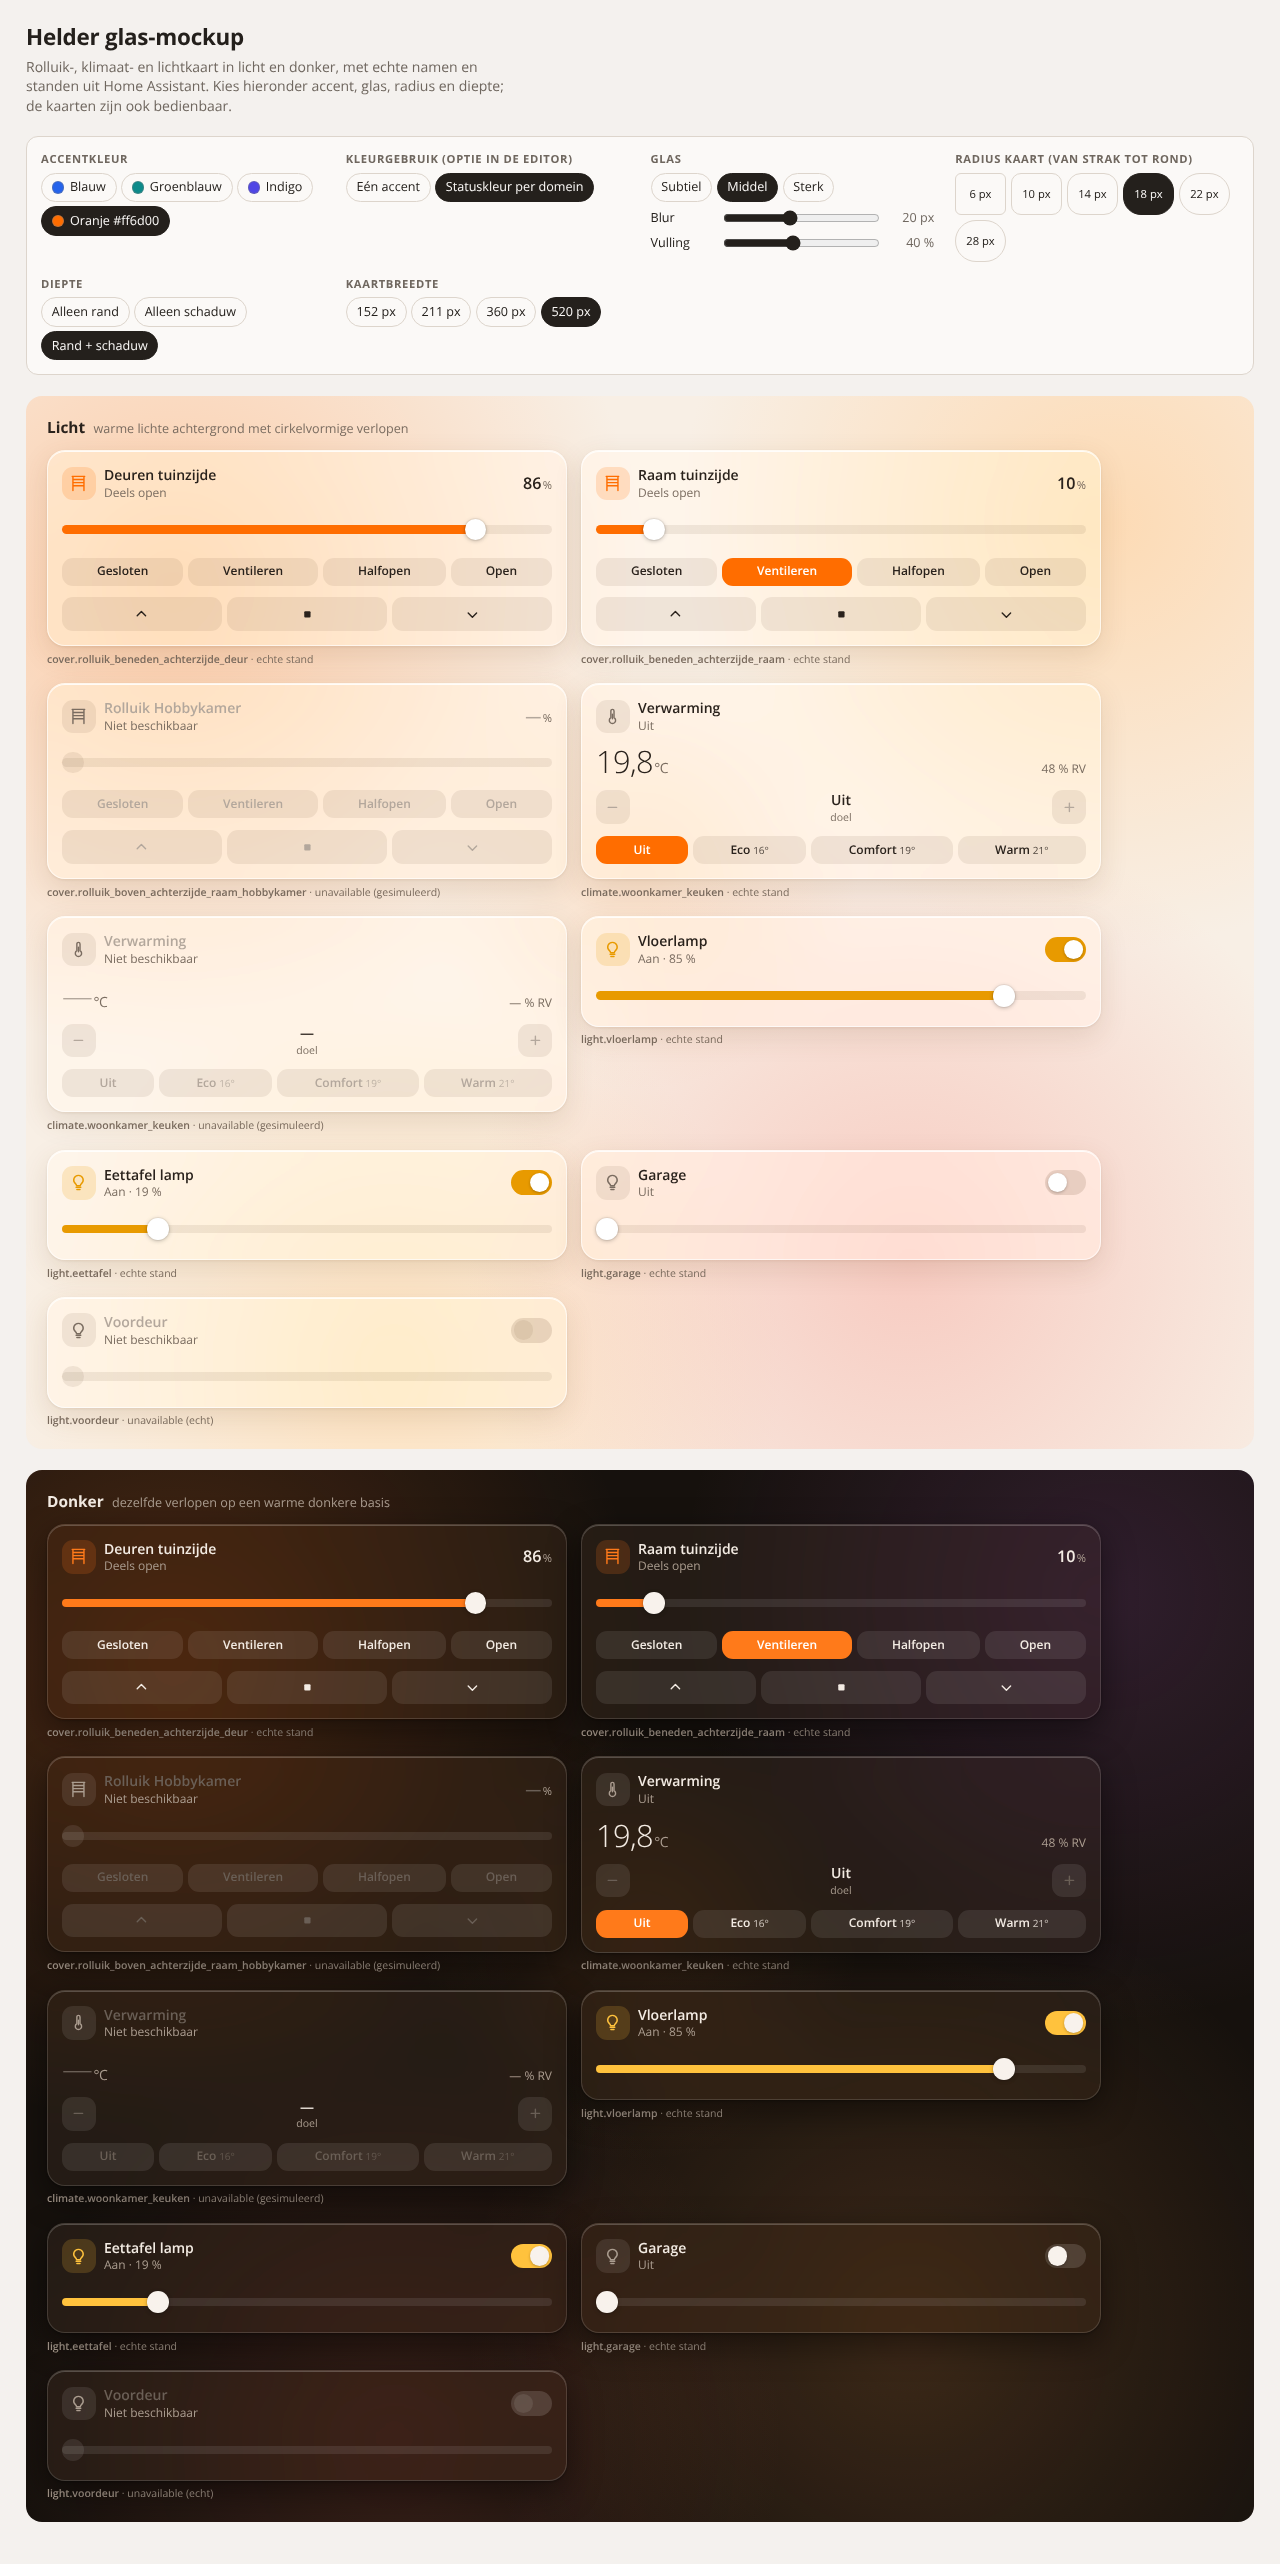
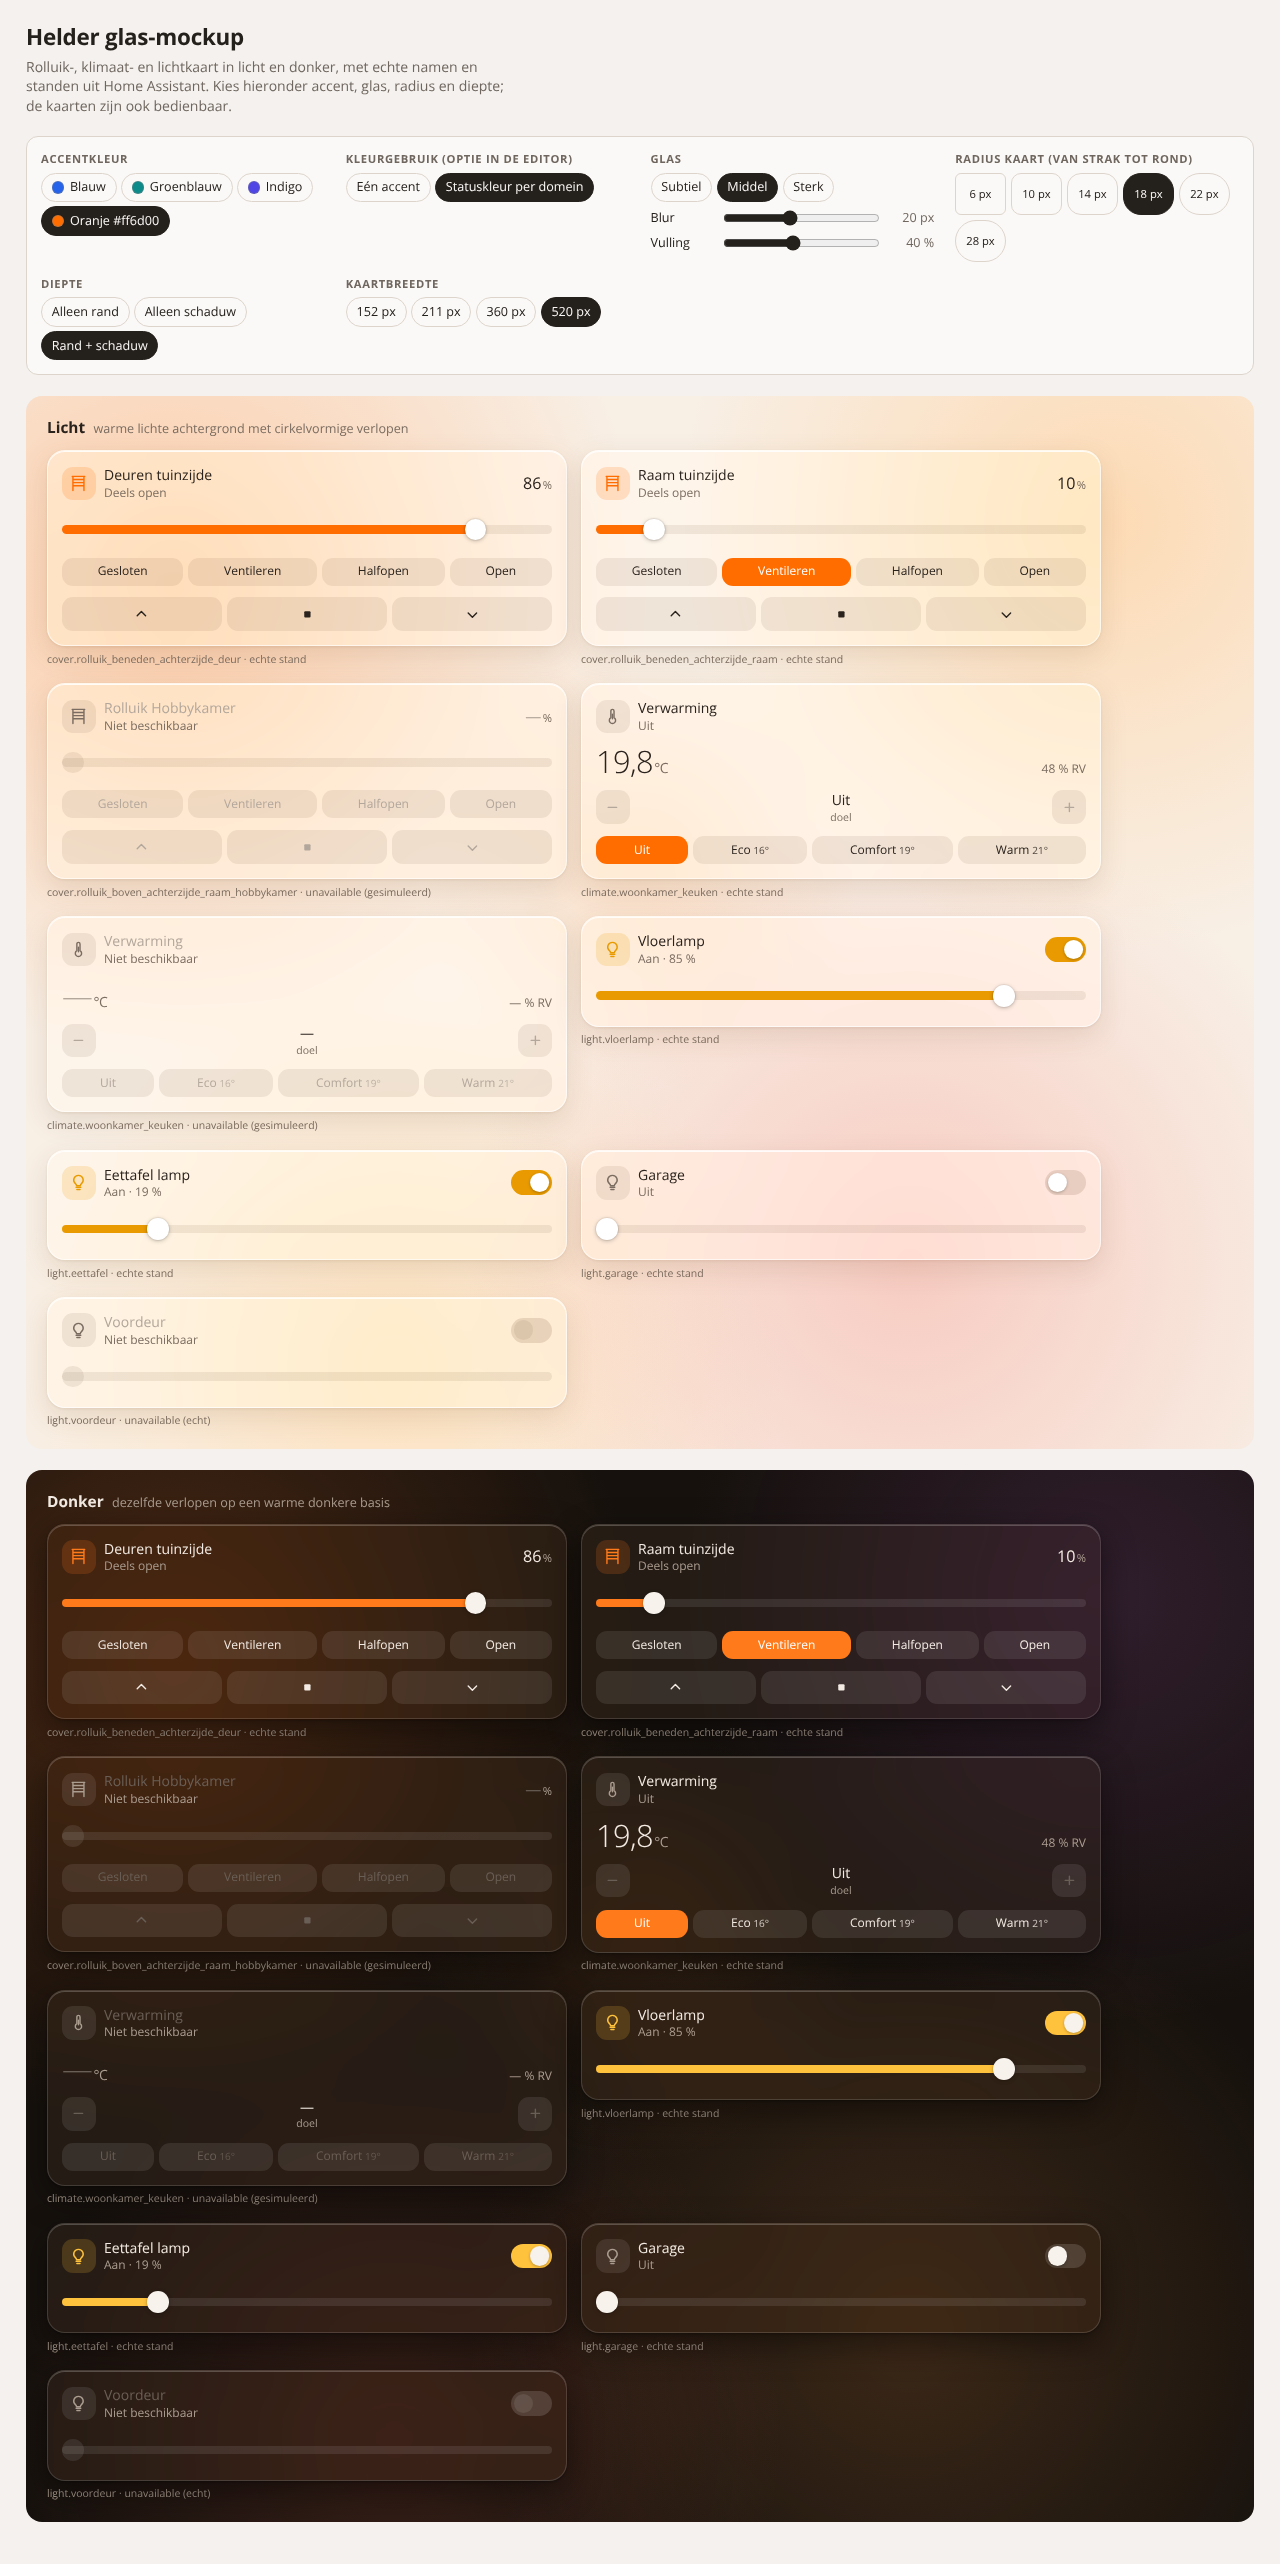
mockup: use regular font weight on cards
Claude-Session: https://claude.ai/code/session_0188TZibxehgLpvZx4MTqWFe

diff --git a/mockup/glass.html b/mockup/glass.html
@@ -182,7 +182,7 @@ header p { margin: .3rem 0 0; color: var(--page-muted); max-width: 60ch; }
 .cards { display: flex; flex-wrap: wrap; gap: 1.2rem 1rem; align-items: flex-start; }
 figure { margin: 0; display: grid; gap: .4rem; width: var(--card-w, 211px); max-width: 100%; }
 figcaption { font-size: .75rem; color: var(--helder-color-text-muted); overflow-wrap: anywhere; }
-figcaption b { font-weight: 600; }
+figcaption b { font-weight: 400; }
 
 /* ---------- Kaart ---------- */
 .card {
@@ -207,9 +207,9 @@ figcaption b { font-weight: 600; }
 .icon svg { width: 1.35rem; height: 1.35rem; }
 .card.active .icon { background: color-mix(in srgb, var(--state) 18%, transparent); color: var(--state); }
 .text { grid-area: text; min-width: 0; }
-.name { font-weight: 600; font-size: 1rem; white-space: nowrap; overflow: hidden; text-overflow: ellipsis; }
+.name { font-weight: 400; font-size: 1rem; white-space: nowrap; overflow: hidden; text-overflow: ellipsis; }
 .sub  { font-size: .857rem; color: var(--helder-color-text-muted); white-space: nowrap; overflow: hidden; text-overflow: ellipsis; }
-.value { grid-area: value; font-size: 1.15rem; font-weight: 600; font-variant-numeric: tabular-nums; white-space: nowrap; }
+.value { grid-area: value; font-size: 1.15rem; font-weight: 400; font-variant-numeric: tabular-nums; white-space: nowrap; }
 .unit { font-size: .8rem; font-weight: 400; color: var(--helder-color-text-muted); margin-left: .1rem; }
 @container (max-width: 190px) {
   .head { grid-template-columns: auto 1fr; grid-template-areas: "icon value" "text text"; }
@@ -242,7 +242,7 @@ figcaption b { font-weight: 600; }
 .btn {
   flex: 1 1 0; min-width: 0; height: 2.4rem; border: 0; border-radius: var(--helder-radius-control);
   background: var(--helder-control-bg); color: var(--helder-color-text); cursor: pointer;
-  display: grid; place-items: center; font: inherit; font-weight: 600;
+  display: grid; place-items: center; font: inherit; font-weight: 400;
 }
 .btn svg { width: 1.2rem; height: 1.2rem; }
 .btn:hover:not(:disabled) { background: var(--helder-control-bg-hover); }
@@ -251,7 +251,7 @@ figcaption b { font-weight: 600; }
 .chips { display: flex; flex-wrap: wrap; gap: .35rem; }
 .chip {
   flex: 1 1 auto; border: 0; border-radius: var(--helder-radius-control); padding: .4rem .6rem;
-  font: inherit; font-size: .857rem; font-weight: 600; white-space: nowrap;
+  font: inherit; font-size: .857rem; font-weight: 400; white-space: nowrap;
   background: var(--helder-control-bg); color: var(--helder-color-text); cursor: pointer;
 }
 .chip[aria-pressed="true"] { background: var(--helder-color-accent); color: var(--helder-color-on-accent); }
@@ -279,7 +279,7 @@ figcaption b { font-weight: 600; }
 .meta { font-size: .857rem; color: var(--helder-color-text-muted); font-variant-numeric: tabular-nums; }
 .target { display: grid; grid-template-columns: 2.4rem 1fr 2.4rem; align-items: center; gap: .4rem; }
 .target .btn { flex: none; width: 2.4rem; }
-.target .tv { text-align: center; font-weight: 600; font-variant-numeric: tabular-nums; white-space: nowrap; }
+.target .tv { text-align: center; font-weight: 400; font-variant-numeric: tabular-nums; white-space: nowrap; }
 .target .tv small { display: block; font-size: .75rem; font-weight: 400; color: var(--helder-color-text-muted); }
 
 /* onbeschikbaar: alleen kleuren veranderen */

diff --git a/docs/design.md b/docs/design.md
@@ -95,4 +95,5 @@ deploy/deploy.sh uitrol naar HA
 | 2026-11-15 | Klimaatkaart: presets (label + temperatuur) instelbaar in de visuele editor |
 | 2026-11-15 | Lichtkaart: aan/uit met helderheidsslider |
 | 2026-11-15 | Claude mag de hele HA-installatie lezen (alleen lezen; wijzigen blijft na toestemming) |
+| 2026-11-15 | Geen vetgedrukte tekst in kaarten: alle kaarttekst normaal gewicht (400), grote readouts licht (300) |
 | 2026-11-15 | Fundamentwerk in deze thread op branch `claude/project-thread-ganvgt`; merge naar `main` na akkoord |
